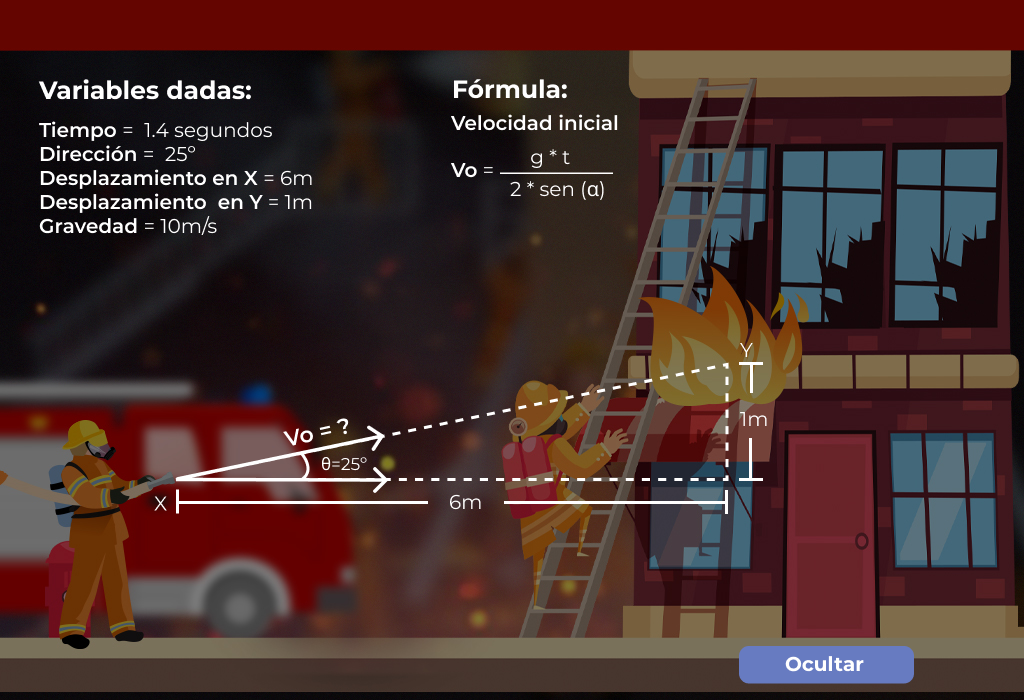
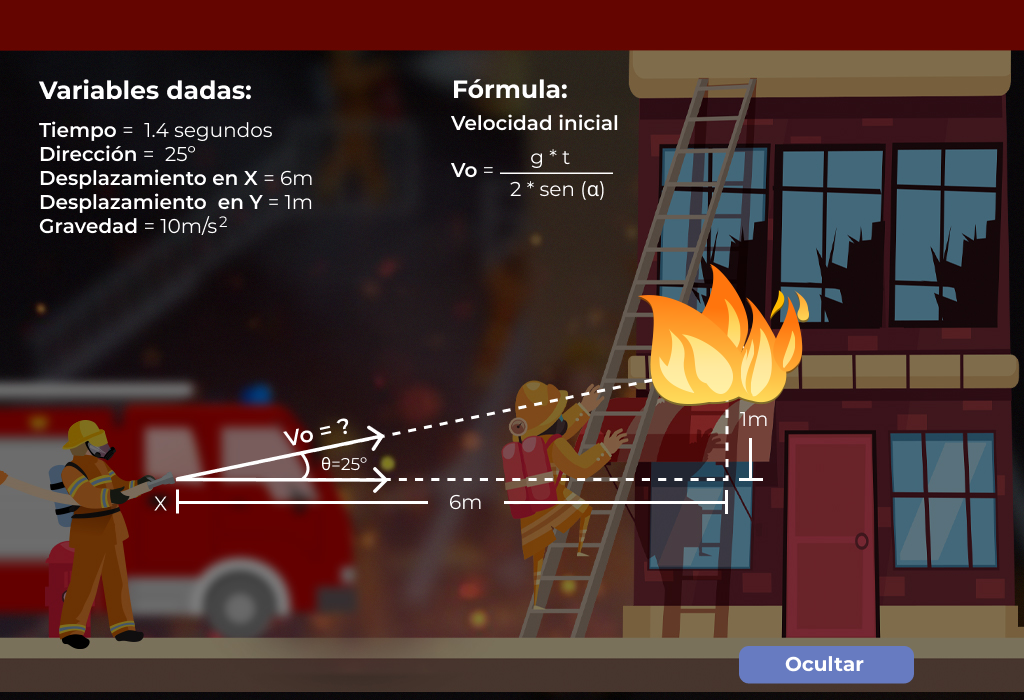
Fixed atan and gravity value

Changed region(s): [[0.625, 0.39, 0.8125, 0.6]]

diff --git a/scripts/Main.js b/scripts/Main.js
@@ -368,6 +368,10 @@ function draw() {
                 return 0;
             });
 
+            /*sortedArray.forEach(function(elem, i) {
+                console.log(`${i + 1}. Nombre: ${elem.name} | Tiempo: ${elem.time} | Puntaje: ${elem.totalScore}`);
+            });*/
+
             // Pintar lista
             for (let i = 0; i < 5; i++) {
                 let elem = sortedArray[i];
@@ -709,7 +713,7 @@ function draw() {
             fill(255);
             textFont(regularFont);
             textSize(18);
-            text('El bombero tiene una manguera inclinada en 45º y necesita lanzar agua con velocidad inicial para apagar el fuego ubicado en el edificio y tiene un tiempo de 1.79 segundos Calcule el valor de Vo (velocidad inicial). (g= 10 m/s2).', 152, 101, 450);
+            text('El bombero tiene una manguera inclinada en 45º y necesita lanzar agua con velocidad inicial para apagar el fuego ubicado en el edificio y tiene un tiempo de 1.79 segundos Calcule el valor de Vo (velocidad inicial).', 152, 101, 450);
 
             // Bombero
             image(fireman, -34, 420);
@@ -1034,7 +1038,7 @@ function draw() {
             fill(255);
             textFont(regularFont);
             textSize(18);
-            text('El bombero tiene una manguera inclinada en 25º y necesita lanzar agua con velocidad inicial para apagar el fuego ubicado en el edificio y tiene un tiempo de 1.4 segundos Calcule el valor de Vo. (velocidad inicial). (g= 10 m/s2).', 152, 101, 450);
+            text('El bombero tiene una manguera inclinada en 25º y necesita lanzar agua con velocidad inicial para apagar el fuego ubicado en el edificio y tiene un tiempo de 1.4 segundos Calcule el valor de Vo. (velocidad inicial).', 152, 101, 450);
 
             // Life
             life.paint();
